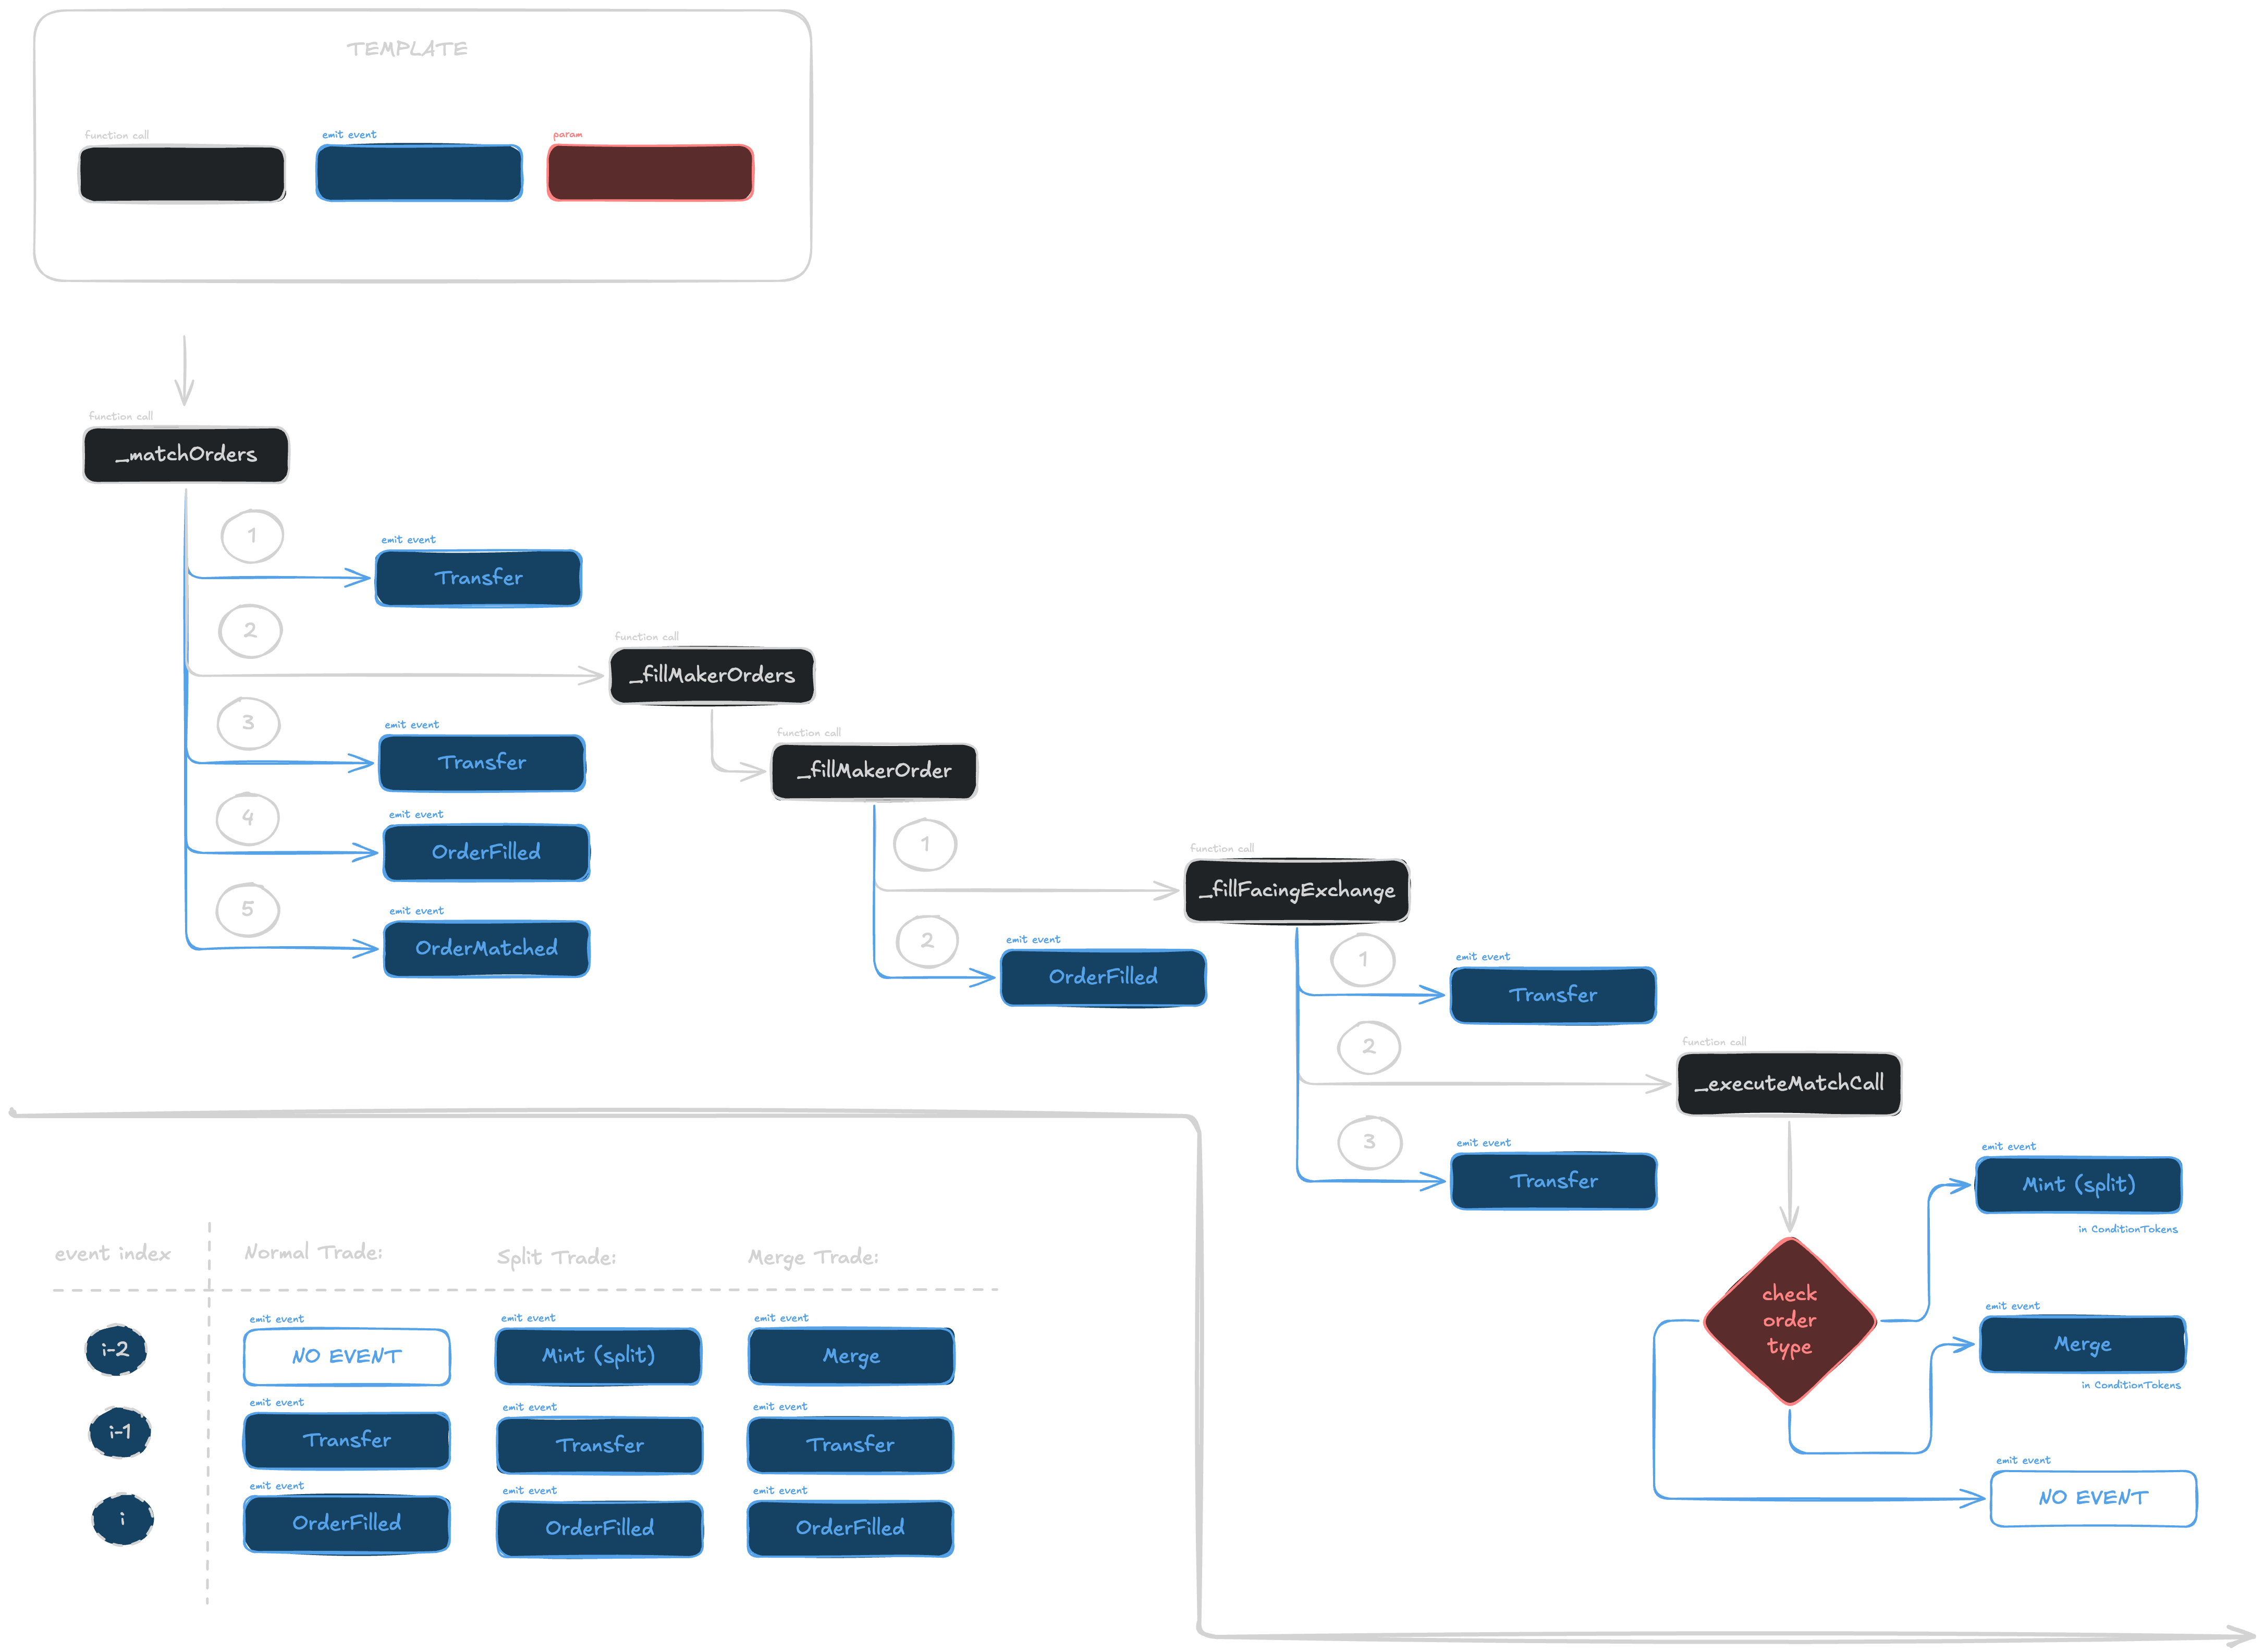
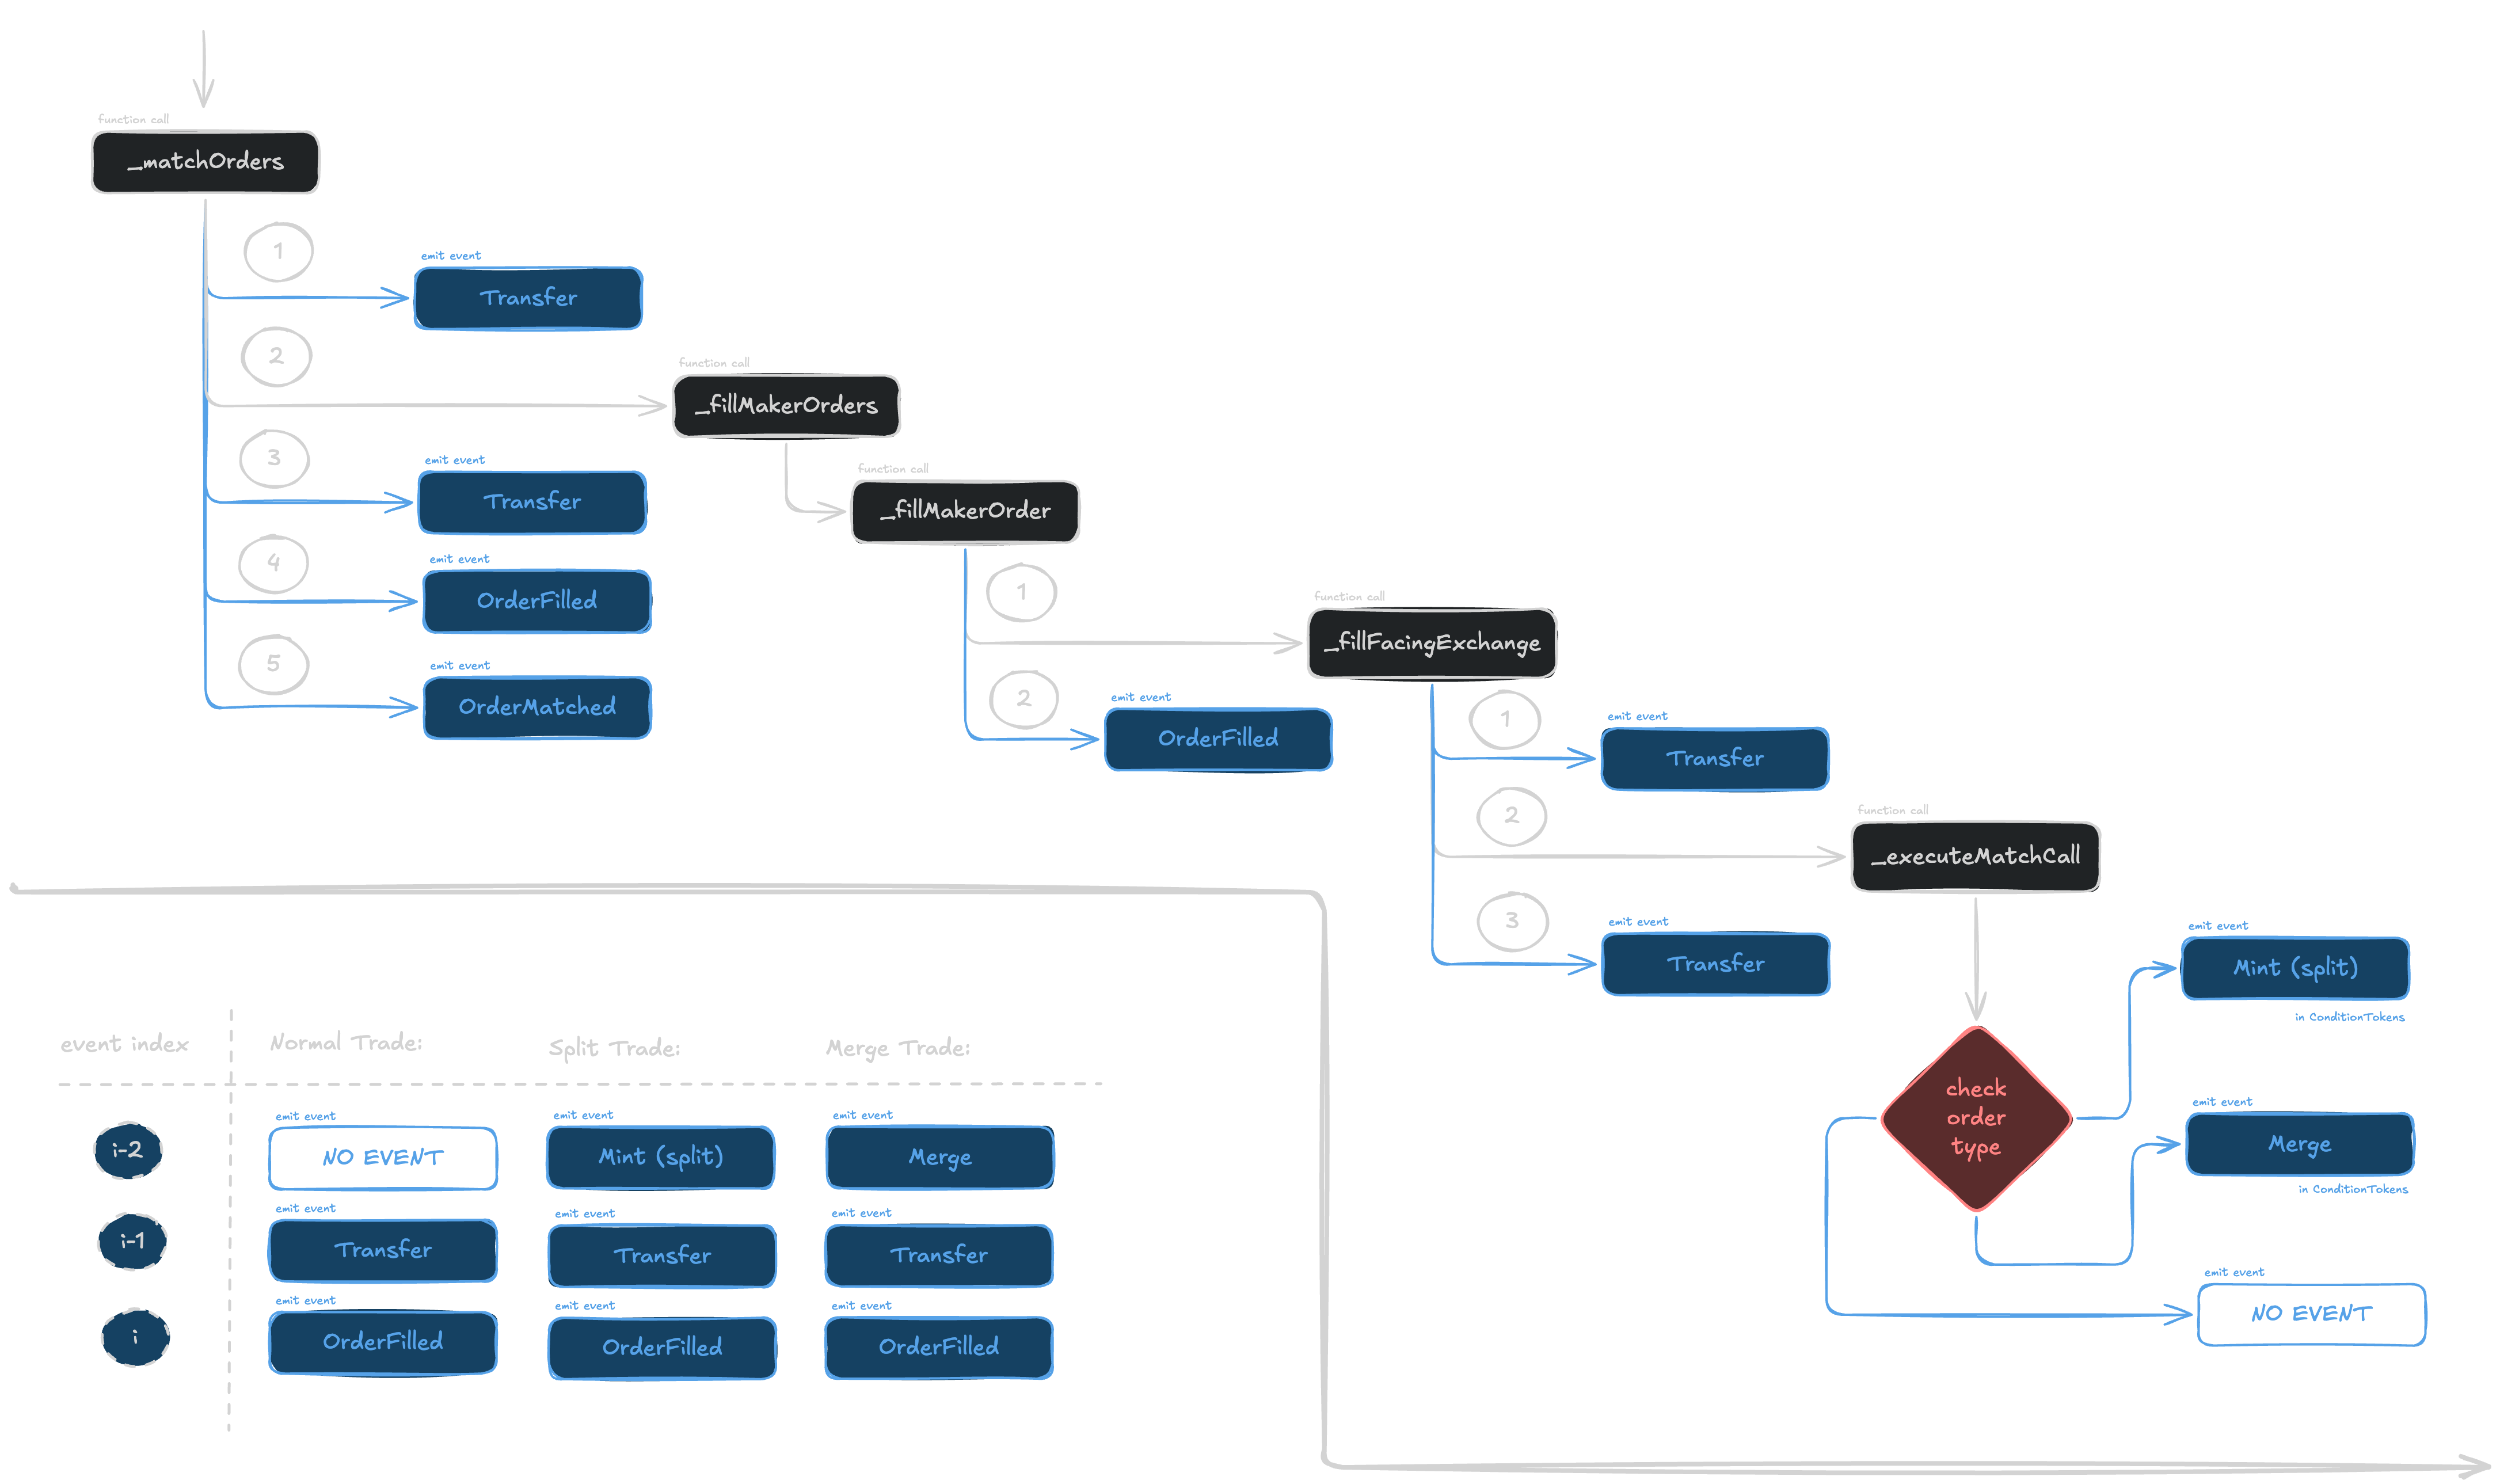
feat: trim contract flow, add yield and notional farmer chart, initial trade labelling section

diff --git a/Report.md b/Report.md
@@ -4,6 +4,7 @@ The Aim of this report is to create a framework for Ranking Polymarket Insiders 
 
 ## Data Prep
 
+### Understanding whats Onchain
 We will specifically utilize Dune Analytics `polymarket.trades` and `polymarket.market_details` tables. 
 Polymarket enables prediction markets by creating YES/NO pair tokens that represent the outcome of a given question. There are two types of questions, CTF and Neg Risk.
 CTF (Collateralized Trading Facility) contracts are used to resolve binary questions, while Neg Risk contracts are used to resolve non-binary multi-outcome questions.
@@ -20,10 +21,41 @@ OrderFilled (
   uint256 fee
 )
 ```
+
+![Contract flow](imgs/contract_control_flow.png)
+
 Polymarket API itself is harder to scrape due to the vast size of the polymarket dataset. 
 Between November 01, 2025 and April 28, 2026, a total of 1.03 Billion trades were recorded, by approximately 1.7 Million takers and makers.
-The entire data is around 150GB in size, processing which on Dune Analytics on free tier is extremely slow and expensive, and borderline impossible with the 2 minute query limit.
-Hence, we will use EDA and qualitative analysis to reduce the dataset size. 
+Processing this massive dataset without any initial filtering, on Dune Analytics on a free tier is extremely slow, expensive, and borderline impossible with the 2 minute query limit.
+
+
+### Initial Filtering
+Since the data set is too large to process,we will use EDA and qualitative analysis to reduce the dataset size. 
+We will employ a qualitative filter first, aiming to reduce the number of trades to process.
+1. We first filter out markets that are likely to have high volume due to arbitrage. Markets that are trading on Crypto and Stock Prices, tend to follow oracle prices and consist of alot of arbitrage bots looking to trade inefficienies against external markets. These categories extremely have high volume and highly recurrent markets, inviting strong automations. Moreover, users can actively hedge positions across various venues to protect downside risk, thus making it harder to signal.
+2. Markets that are trading on sports outcomes, tend to have strong volatility and follow live events closely. Live event data is the most important signal for these markets. Since the data utilized for this analysis is strictly onchain, the lack of access to offchain event data, that must be curated from dedicated APIs, is a significant effort. Thus, we will ignore these markets for the initial filter.
+3. A sane $100K threshold for total volume processed is also used
+
+We specifically ignore any market with one of the following tags:
+```sql
+[
+  'Crypto Prices', 'Up or Down', 
+  'Esports', 'Recurring', 
+  'Games', 'Sports',
+  'Tweet Markets'
+]
+```
+
+Filtering for shortlisted markets with volume > $100k, gives us a 98% reduction in the number of trades.
+
+| label | trades | makers | takers |
+--- | --- | --- | --- |
+| 1. all trades | 1.03b | 1.73m | 1.68m |
+| 2. ignore full-order trades | 646.81m | 812.92k | 1.68m |
+| 3. shortlisted markets | 25.09m | 224.25k | 676.51k |
+| 4. shortlisted markets (volume > $100k) | 18.30m | 191.86k | 609.31k |
+
+### Cleaning Dune Polymarket Trades
 The most common filter amongst existing literature is to ignore maker fills and only include full-order trades. 
 In their research (Polymarket Volume Is Being Double-Counted)[https://www.paradigm.xyz/2025/12/polymarket-volume-is-being-double-counted], Storm Slivkoff noted that two kinds of `OrderFilled` events are emitted by the Polymarket CTF and Neg Risk contracts. When a user makes a market order, the `OrderFilled` event is emitted for both individual taker-maker fills and to the the complete order that is fulfilled. The two events can be distinguished by checking the `taker` field, which is the CTF or Neg Risk contract address for a full order. 
 Adding this filter at a very early stage will remove some key signals within the dataset, that could be used, hence we will not ignore these events.
@@ -35,13 +67,17 @@ These however are not flagged by the Dune dataset. Moreover, these trades tend t
 This is because, for a maker-taker trade, the `OrderFilled` event always emits the information wrt to the maker side. In the case of split and merge trades, this causes a discrepancy as the taker side is not present in the event data. Hence, some extra calculations based on some heuristics are needed to get the maker info of these fills. 
 For these split and merge fills, we can obtain the correct taker asset by getting the info from the final `OrderFilled` event.
 Since the `shares` required to redeem or mint YES/NO pairs are same, the split and merge fills always have the same amount of shares for the maker and taker. Since these assets are to be combined to redeem or mint, the price of the maker asset can be obtained as `(1-price)` where `price` is the asset price logged in the `OrderFilled` event. 
-Using this, `(1 - price)` as the maker asset price, we can now calculate the usd volume of a fill as `shares * (1-price)` 
+Using this, `(1 - price)` as the maker asset price, we can now calculate the usd volume of a fill as `shares * (1-price)`. 
+We can sanity check this by aggregating the maker usd volume of all fills and comparing it to the volume of all full order fills, ensuring it matches.
 
-![Contract flow](imgs/contract_control_flow.png)
+### Initial trade labelling
+With Polymarket Airdrop speculation in mind, there are two main types of trades, where directionality is inconsequential and the trader is betting on the market having reached an outcome. These are:
+1. Notional Farming - Trades where users buy shares close to 0 price, thus pumping up their notional volume in exchange for small USD volume. eg: buying 100000 YES shares at 0.0001 price for 100 USD. 
+2. Yield Farming - Traders where users buy shares close to 1 price, thus capturing the small difference between the market price and resolution price. eg: buying 100000 YES shares at 0.98 price for 98000 USD and booking 2000 USD profit upon redemption.
 
-| label | trades | makers | takers |
---- | --- | --- | --- |
-| 1. all trades | 1.03b | 1.73m | 1.68m |
-| 2. ignore full-order trades | 646.81m | 812.92k | 1.68m |
-| 3. shortlisted markets | 25.09m | 224.25k | 676.51k |
-| 4. shortlisted markets (volume > $100k) | 18.30m | 191.86k | 609.31k |
+For our analysis, we will label a trade as : 
+1. Notional Farming - If the trader buys Tokens priced under 0.05 at most 48 hours before resolution in the opposite direction of resolution (i.e if "YES" is bought and final outcome is "NO")
+2. Yield Farming - If the trader buys Tokens priced over 0.95 at most 48 hours before resolution in the same direction of resolution (i.e if 'YES" is bought and final outcome is "YES")
+
+This labelling helps label around 50% of the trades in these price ranges.
+![notional_and_yield_farming](imgs/notional_and_yield_farmers.png)